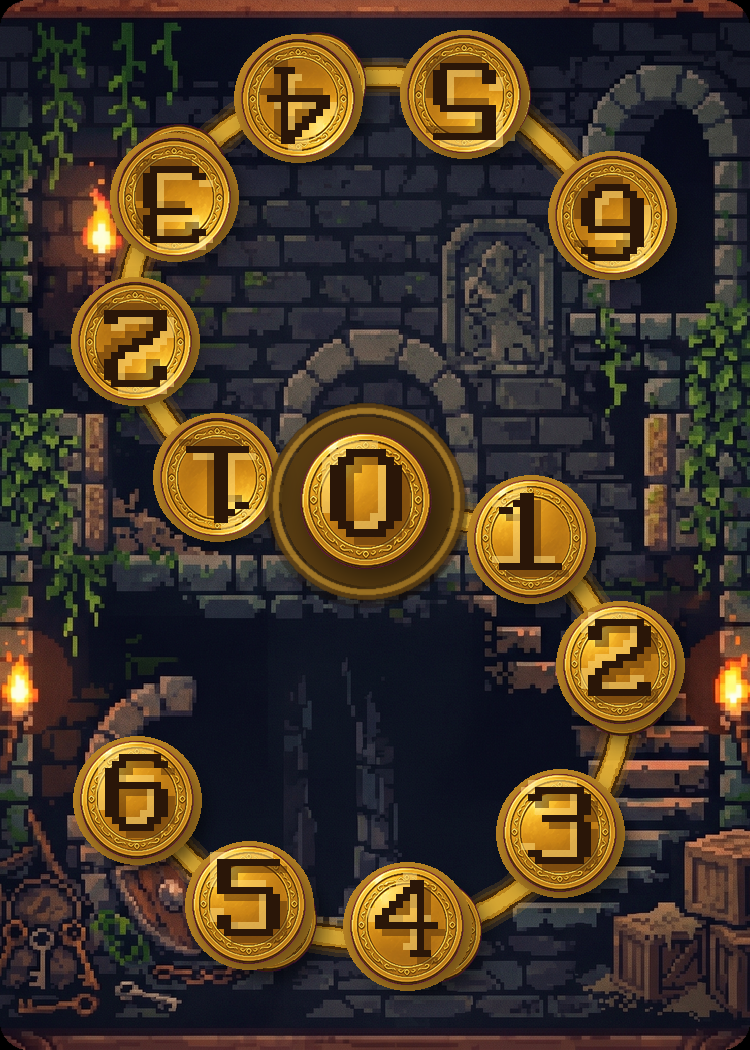
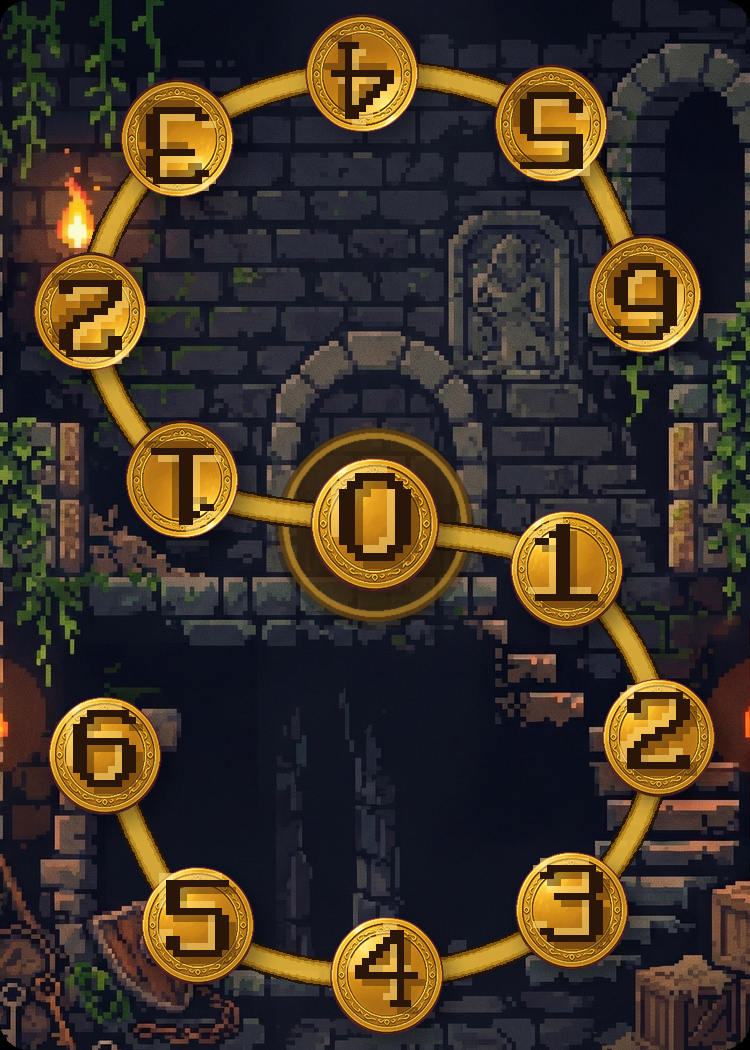
Refait l’échelle d’OR : grand serpentin, pièces espacées
Fond donjon propre (plus de pièce double sous les 4),
piste plus ample, et 3 variantes dans Best/alternative.

diff --git a/dos des cartes et echelle de l'or/Best/alternative/apercu.html b/dos des cartes et echelle de l'or/Best/alternative/apercu.html
@@ -18,8 +18,8 @@
 <body>
   <h1>Alternatives</h1>
   <p>
-    Cinq dispositions du titre sur le dos 03 (brun, bleu, rouge), plus l’échelle d’OR
-    avec des pièces un peu plus grosses. Format poker 750×1050.
+    Cinq dispositions du titre sur le dos 03, plus l’échelle d’OR
+    (grand serpentin, pièces espacées, sans double fond). Format poker 750×1050.
     <a href="../apercu.html">Retour aux Best recadrés</a>.
   </p>
   <h2>03 brun bleu rouge — 5 titres</h2>
@@ -49,15 +49,27 @@
       <figcaption>E. PIXEL / OF / GLORY</figcaption>
     </figure>
   </div>
-  <h2>Échelle d’OR — pièces plus lisibles</h2>
+  <h2>Échelle d’OR — grand serpentin</h2>
   <div class="grid">
     <figure>
       <img src="../original/02_donjon_enroule.png" alt="02 orig">
-      <figcaption>02 originale</figcaption>
+      <figcaption>02 originale (serrée)</figcaption>
     </figure>
     <figure>
-      <img src="02_donjon_enroule_pieces_grosses.png" alt="02 big">
-      <figcaption>02 pièces plus grosses</figcaption>
+      <img src="02_donjon_enroule_grand.png" alt="02 grand">
+      <figcaption>02 grand serpentin (dans Best)</figcaption>
+    </figure>
+    <figure>
+      <img src="02a_serpentin_haut.png" alt="02a">
+      <figcaption>A. Serpentin plus haut</figcaption>
+    </figure>
+    <figure>
+      <img src="02b_serpentin_ovale.png" alt="02b">
+      <figcaption>B. Boucles ovales plus larges</figcaption>
+    </figure>
+    <figure>
+      <img src="02c_serpentin_ouvert.png" alt="02c">
+      <figcaption>C. S plus étiré</figcaption>
     </figure>
   </div>
 </body>

diff --git a/dos des cartes et echelle de l'or/Best/apercu.html b/dos des cartes et echelle de l'or/Best/apercu.html
@@ -21,13 +21,13 @@
   <p>
     Les 7 dos et l’échelle d’OR ont un cadre équilibré (même marge de chaque côté).
     Les originaux sont dans <code>original/</code>.
-    Les 5 alternatives de la 03 et l’échelle avec pièces plus grosses sont dans
+    Les 5 alternatives de la 03 et les serpentins d’OR plus amples sont dans
     <a href="alternative/apercu.html">alternative/</a>.
   </p>
   <h2>Versions recadrées</h2>
   <div class="grid">
     <figure><img src="01_brun_or_laurier.png" alt="01"><figcaption>01. Brun, or, laurier</figcaption></figure>
-    <figure><img src="02_donjon_enroule.png" alt="02"><figcaption>02. Échelle d’OR — pièces plus grosses</figcaption></figure>
+    <figure><img src="02_donjon_enroule.png" alt="02"><figcaption>02. Échelle d’OR — grand serpentin</figcaption></figure>
     <figure><img src="03_brun_bleu_rouge.png" alt="03"><figcaption>03. Brun, bleu / rouge</figcaption></figure>
     <figure><img src="07_bois_or.png" alt="07"><figcaption>07. Bois, titre or</figcaption></figure>
     <figure><img src="10_pourpre_or_seul.png" alt="10"><figcaption>10. Pourpre, titre or</figcaption></figure>

diff --git a/dos des cartes et echelle de l'or/scripts/generer_echelle_ample.py b/dos des cartes et echelle de l'or/scripts/generer_echelle_ample.py
@@ -1,0 +1,169 @@
+#!/usr/bin/env python3
+"""Serpentin plus grand, pièces espacées, fond donjon propre (sans double pièce)."""
+from __future__ import annotations
+
+import importlib.util
+from pathlib import Path
+
+from PIL import Image, ImageDraw, ImageFilter
+
+ROOT = Path(__file__).resolve().parents[1]
+BEST = ROOT / "Best"
+ALT = BEST / "alternative"
+CARD_W, CARD_H = 750, 1050
+RADIUS = 28
+
+spec = importlib.util.spec_from_file_location(
+    "geo", Path(__file__).with_name("generer_echelle_or.py")
+)
+geo = importlib.util.module_from_spec(spec)
+spec.loader.exec_module(geo)
+
+
+def round_card(im: Image.Image, radius: int = RADIUS) -> Image.Image:
+    card = im.convert("RGBA")
+    mask = Image.new("L", (CARD_W, CARD_H), 0)
+    ImageDraw.Draw(mask).rounded_rectangle(
+        (0, 0, CARD_W - 1, CARD_H - 1), radius=radius, fill=255
+    )
+    mask = mask.filter(ImageFilter.GaussianBlur(0.35))
+    out = Image.new("RGBA", (CARD_W, CARD_H), (0, 0, 0, 255))
+    out.paste(card, (0, 0))
+    out.putalpha(mask)
+    bg = Image.new("RGBA", (CARD_W, CARD_H), (0, 0, 0, 255))
+    return Image.alpha_composite(bg, out).convert("RGB")
+
+
+def inner_dungeon(im: Image.Image) -> Image.Image:
+    """Enlève le parchemin du fond pour coller au recadrage poker."""
+    w, h = im.size
+    # cadre parchemin + filet orange
+    l, t, r, b = int(w * 0.075), int(h * 0.055), int(w * 0.925), int(h * 0.945)
+    return im.crop((l, t, r, b))
+
+
+# Formes du côté A (0 → 6). S plus ample, 180°-symétrique.
+SHAPES = {
+    # Boucles plus grandes, même esprit que la 02 originale.
+    "ample_rond": [
+        (0.50, 0.50),
+        (0.76, 0.545),
+        (0.88, 0.70),
+        (0.76, 0.87),
+        (0.50, 0.93),
+        (0.24, 0.87),
+        (0.14, 0.72),
+    ],
+    # Encore plus ouvert en hauteur (serpentin plus long).
+    "ample_haut": [
+        (0.50, 0.50),
+        (0.74, 0.56),
+        (0.84, 0.72),
+        (0.74, 0.88),
+        (0.50, 0.91),
+        (0.26, 0.88),
+        (0.16, 0.74),
+    ],
+    # Plus large, boucles ovales.
+    "ample_ovale": [
+        (0.50, 0.50),
+        (0.76, 0.53),
+        (0.86, 0.68),
+        (0.78, 0.85),
+        (0.52, 0.91),
+        (0.24, 0.86),
+        (0.15, 0.70),
+    ],
+    # S plus étiré, moins circulaire.
+    "ample_ouvert": [
+        (0.50, 0.50),
+        (0.72, 0.57),
+        (0.86, 0.74),
+        (0.70, 0.90),
+        (0.46, 0.935),
+        (0.22, 0.86),
+        (0.12, 0.68),
+    ],
+}
+
+JOBS = [
+    (
+        "02_donjon_enroule.png",
+        BEST,
+        "ample_rond",
+        "Donjon — grand serpentin rond, pièces espacées",
+        dict(ribbon="gold", desired=118, path_width=20, vignette=0.16, warmth=1.02, gap=26),
+    ),
+    (
+        "02a_serpentin_haut.png",
+        ALT,
+        "ample_haut",
+        "Variante A — serpentin plus haut",
+        dict(ribbon="gold", desired=110, path_width=20, vignette=0.14, warmth=1.02, gap=30),
+    ),
+    (
+        "02b_serpentin_ovale.png",
+        ALT,
+        "ample_ovale",
+        "Variante B — boucles ovales plus larges",
+        dict(ribbon="glow", desired=110, path_width=20, vignette=0.16, warmth=1.03, gap=28),
+    ),
+    (
+        "02c_serpentin_ouvert.png",
+        ALT,
+        "ample_ouvert",
+        "Variante C — S plus étiré",
+        dict(ribbon="gold", desired=110, path_width=18, vignette=0.14, warmth=1.01, gap=30),
+    ),
+]
+
+
+def report(nodes, coin_size, name):
+    ds = geo.neighbor_distances(nodes)
+    print(
+        f"  {name}: min {min(ds):.0f}  mean {sum(ds)/len(ds):.0f}  "
+        f"max {max(ds):.0f}  coin {coin_size}  gap min {min(ds)-coin_size:.0f}"
+    )
+    r = coin_size / 2 + 6
+    for n in nodes:
+        if n["x"] < r or n["x"] > CARD_W - r or n["y"] < r or n["y"] > CARD_H - r:
+            print(f"    EDGE {n['v']}{'R' if n['rot'] else ''} x={n['x']:.0f} y={n['y']:.0f}")
+
+
+def main() -> None:
+    ALT.mkdir(parents=True, exist_ok=True)
+    coin = geo.chromakey_magenta(Image.open(ROOT / "Old" / "fonds" / "piece_or_pixel.jpg"))
+    w, h = coin.size
+    side = max(w, h)
+    blank = Image.new("RGBA", (side, side), (0, 0, 0, 0))
+    blank.paste(coin, ((side - w) // 2, (side - h) // 2), coin)
+
+    fond = inner_dungeon(Image.open(ROOT / "Old" / "Fond_Carte_Or.jpg"))
+
+    written: list[tuple[Path, str]] = []
+    for name, dest_dir, shape, cap, kw in JOBS:
+        gap = kw.pop("gap")
+        desired = kw.pop("desired")
+        nodes = geo.layout_from_waypoints(CARD_W, CARD_H, SHAPES[shape], cx=0.50, cy=0.50)
+        coin_size = geo.fit_coin_size(nodes, desired, gap=gap)
+        zero_size = coin_size + 16
+        report(nodes, coin_size, Path(name).stem)
+        geo.debug_layout(nodes, coin_size, Path(name).stem)
+        img = geo.compose_card(
+            fond, nodes, blank, coin_size=coin_size, zero_size=zero_size, digit_scale=7, **kw
+        )
+        img = round_card(img)
+        dest = dest_dir / name
+        img.save(dest, "PNG", optimize=True)
+        written.append((dest, cap))
+        print("wrote", dest, img.size, "coin", coin_size)
+
+    # copie aussi la principale dans alternative pour comparer
+    main_png = BEST / "02_donjon_enroule.png"
+    alt_copy = ALT / "02_donjon_enroule_grand.png"
+    Image.open(main_png).save(alt_copy, "PNG", optimize=True)
+    print("ok")
+
+
+if __name__ == "__main__":
+    main()
